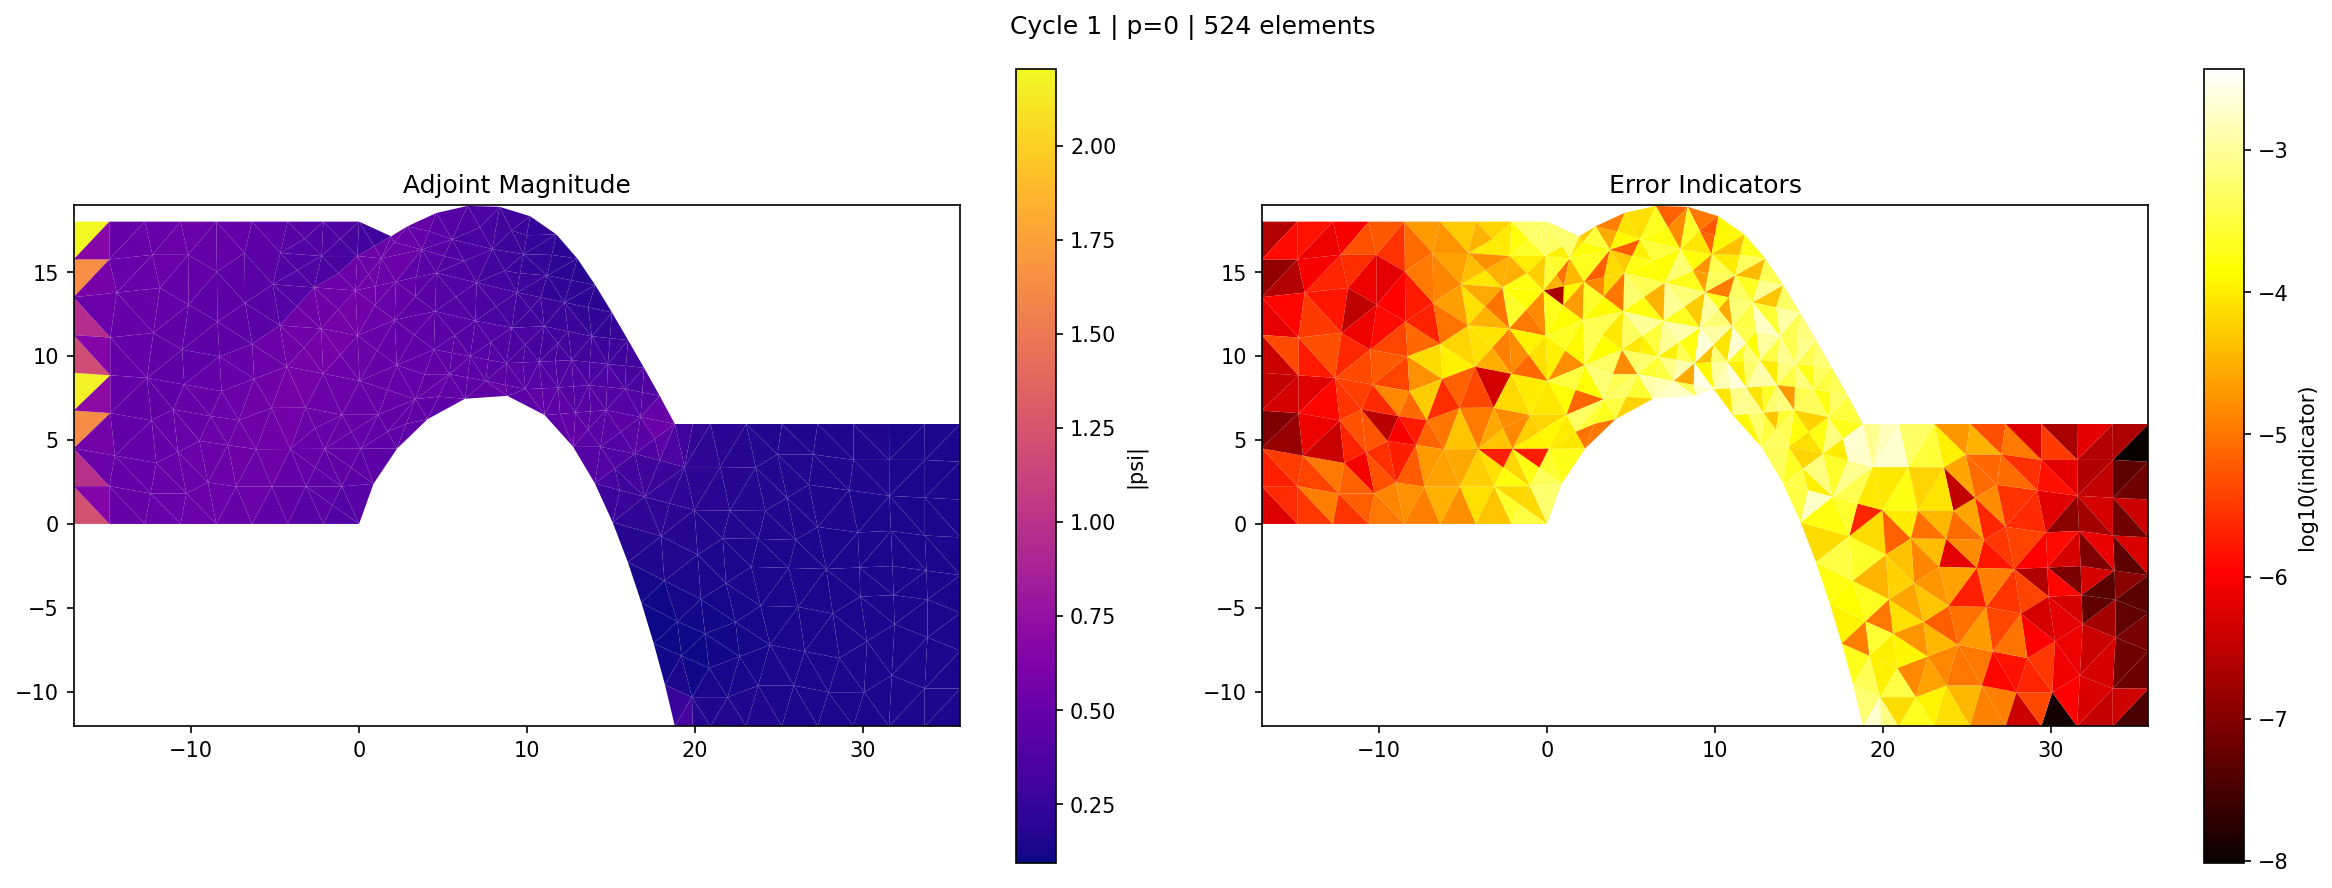
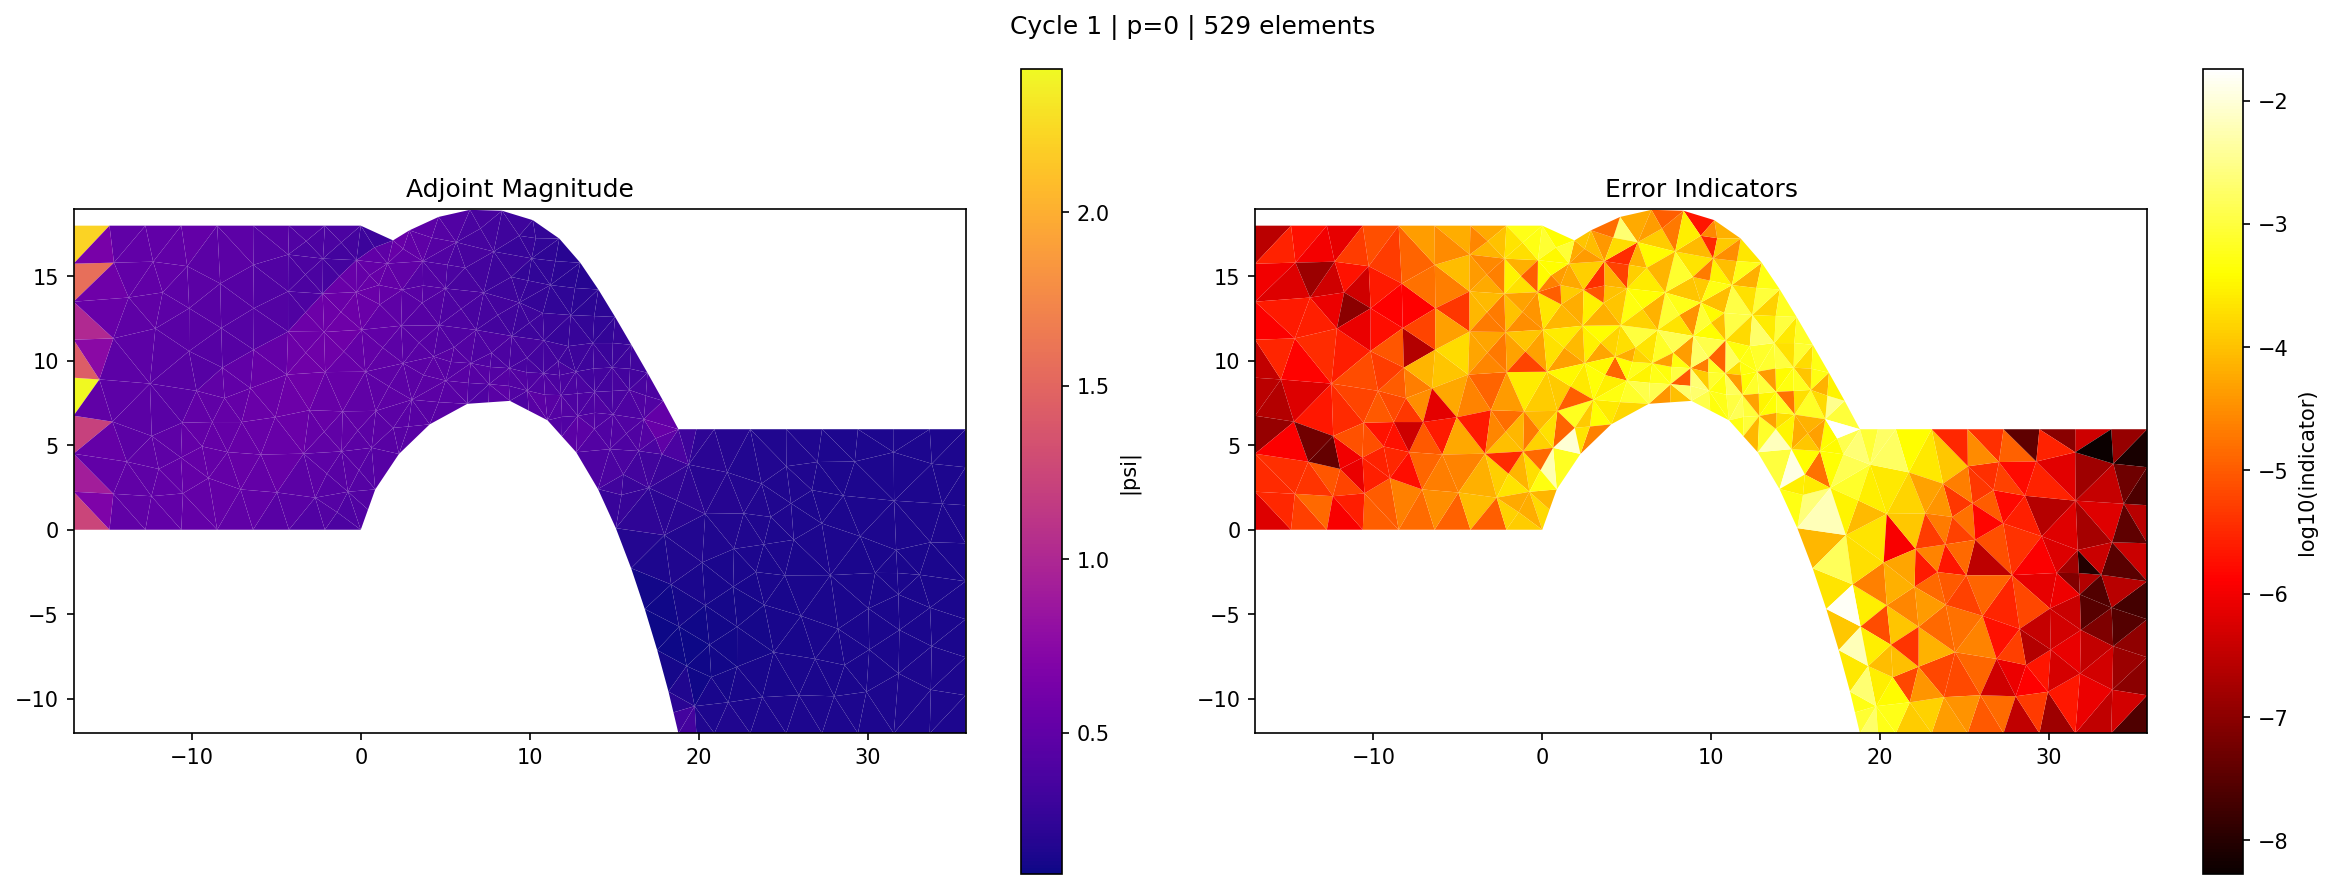
no blade snapping and smoothing -- removed. Just the basics -- re-run now at all p and q orders, and get postproc'd items done for the report, asap.

diff --git a/Project4/src/MeshRefinement.cpp b/Project4/src/MeshRefinement.cpp
@@ -649,19 +649,6 @@ RefinementMap bisectMarkedElementsImpl(Mesh &mesh, const std::vector<bool> &mark
     return cur_node_to_elem;
   };
 
-  auto buildCurrentVertexNeighbors = [&]() {
-    std::vector<std::set<int>> cur_vertex_neighbors(mesh.V.size());
-    for (const auto &elem : mesh.E) {
-      cur_vertex_neighbors[elem.v[0]].insert(elem.v[1]);
-      cur_vertex_neighbors[elem.v[0]].insert(elem.v[2]);
-      cur_vertex_neighbors[elem.v[1]].insert(elem.v[0]);
-      cur_vertex_neighbors[elem.v[1]].insert(elem.v[2]);
-      cur_vertex_neighbors[elem.v[2]].insert(elem.v[0]);
-      cur_vertex_neighbors[elem.v[2]].insert(elem.v[1]);
-    }
-    return cur_vertex_neighbors;
-  };
-
   std::set<std::pair<int,int>> e2b;
   for(int e=0; e<old_Ne; e++) if(marked[e]) e2b.insert(getLE(e));
 
@@ -691,64 +678,6 @@ RefinementMap bisectMarkedElementsImpl(Mesh &mesh, const std::vector<bool> &mark
     Vec2 mid = straight_mid;
     if (old_boundary_edge.count(key)) {
       int g = old_boundary_edge[key];
-      if (g >= 0 && g < static_cast<int>(mesh.Bname.size()) &&
-          lowerCopy(mesh.Bname[g]) == "wall") {
-        const Vec2 snapped_mid = projectToBladeSpline(straight_mid);
-        auto eit = edge_to_elem.find(key);
-        const auto cur_node_to_elem = buildCurrentNodeToElem();
-        const auto cur_vertex_neighbors = buildCurrentVertexNeighbors();
-        bool accepted = true;
-        std::map<int, Vec2> repaired_positions;
-
-        if (eit != edge_to_elem.end()) {
-          for (int eadj : eit->second) {
-            const int *ev = mesh.E[eadj].v;
-            int vopp = -1;
-            for (int k = 0; k < 3; ++k) {
-              if (ev[k] != va && ev[k] != vb) {
-                vopp = ev[k];
-                break;
-              }
-            }
-            if (vopp < 0) continue;
-
-            Vec2 vopp_pos = repaired_positions.count(vopp) ? repaired_positions[vopp] : mesh.V[vopp];
-            if (localWallSplitPatchValid(mesh, va, vb, vopp, snapped_mid, vopp_pos,
-                                         cur_node_to_elem)) {
-              continue;
-            }
-
-            Vec2 avg{0.0, 0.0};
-            int count = 0;
-            for (int nbr : cur_vertex_neighbors[vopp]) {
-              avg = avg + (repaired_positions.count(nbr) ? repaired_positions[nbr] : mesh.V[nbr]);
-              count++;
-            }
-            if (count == 0) {
-              accepted = false;
-              break;
-            }
-            avg = avg / static_cast<double>(count);
-            if (!localWallSplitPatchValid(mesh, va, vb, vopp, snapped_mid, avg,
-                                          cur_node_to_elem)) {
-              accepted = false;
-              break;
-            }
-            repaired_positions[vopp] = avg;
-          }
-        }
-
-        if (!accepted) {
-          std::cerr << "    warning: skipped refinement on wall edge (" << va
-                    << ", " << vb
-                    << ") because snap and opposite-node averaging failed"
-                    << std::endl;
-          ok = false;
-          return -1;
-        }
-        for (const auto &[vid, pos] : repaired_positions) mesh.V[vid] = pos;
-        mid = snapped_mid;
-      }
       old_boundary_edge[{std::min(va,vm), std::max(va,vm)}] = g;
       old_boundary_edge[{std::min(vb,vm), std::max(vb,vm)}] = g;
     } else {
@@ -771,13 +700,7 @@ RefinementMap bisectMarkedElementsImpl(Mesh &mesh, const std::vector<bool> &mark
     auto key = std::make_pair(std::min(va, vb), std::max(va, vb));
     if (edge_geom_midpoint_q2.count(key)) return edge_geom_midpoint_q2[key];
     Vec2 mid = 0.5 * (mesh.V[va] + mesh.V[vb]);
-    if (old_boundary_edge.count(key)) {
-      int g = old_boundary_edge[key];
-      if (g >= 0 && g < static_cast<int>(mesh.Bname.size()) &&
-          lowerCopy(mesh.Bname[g]) == "wall") {
-        mid = projectToBladeSpline(mid);
-      }
-    }
+    (void)old_boundary_edge;
     int vm = static_cast<int>(mesh.V.size());
     mesh.V.push_back(mid);
     edge_geom_midpoint_q2[key] = vm;
